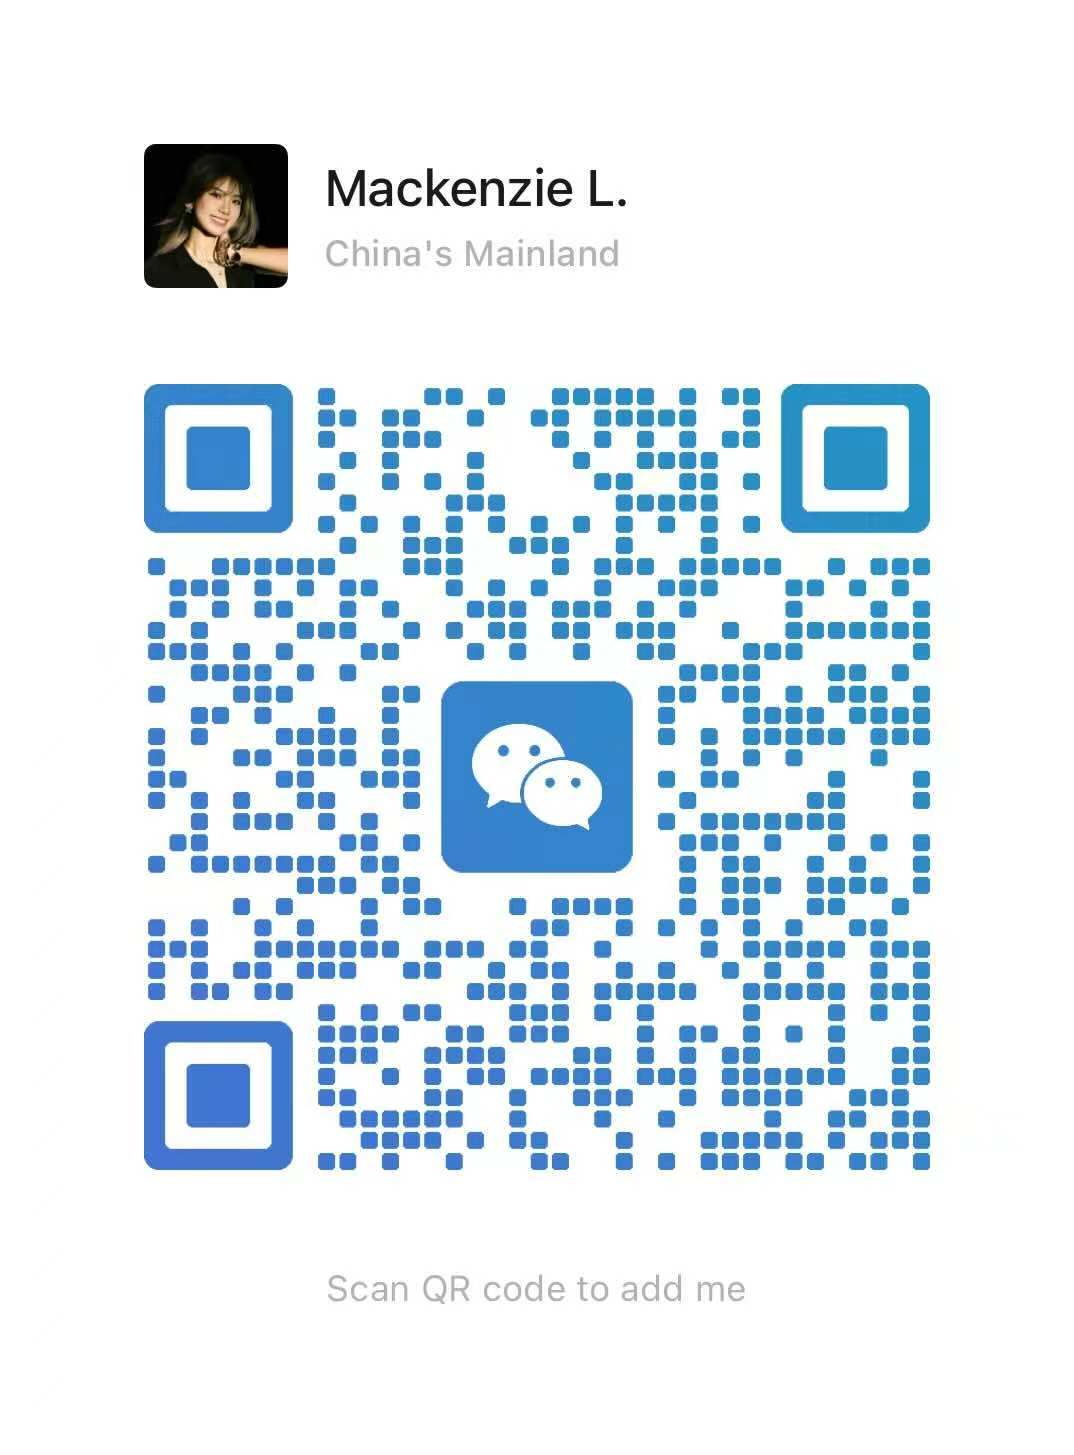
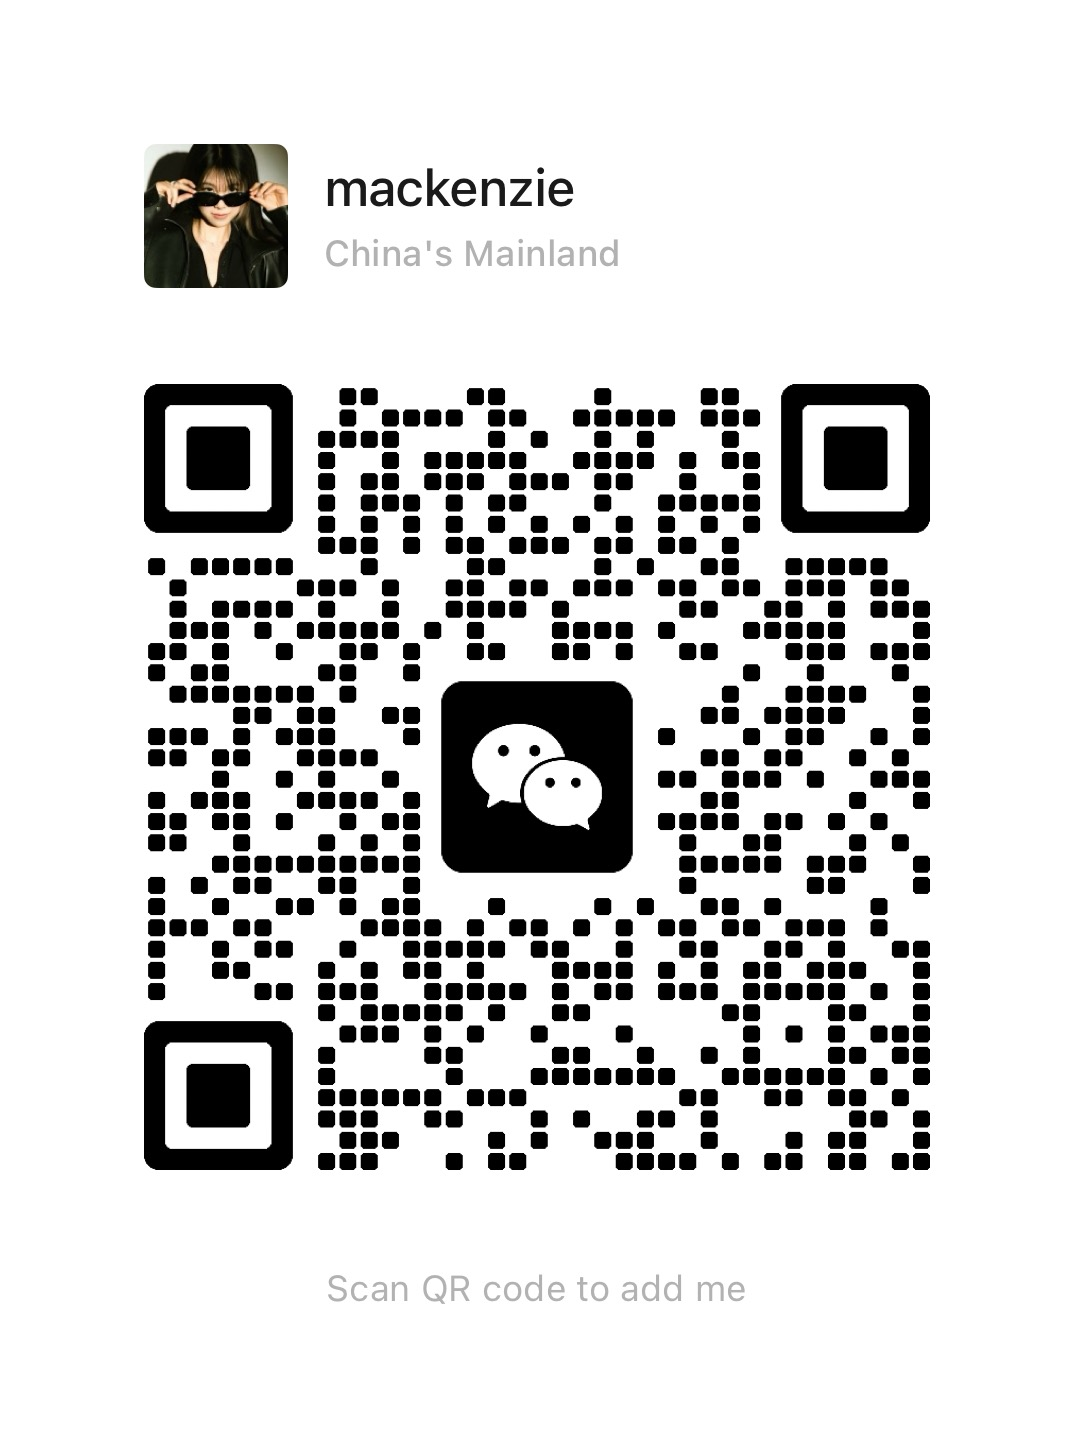
changed contact info

diff --git a/index.html b/index.html
@@ -267,8 +267,9 @@
     <div class="container footer-inner">
       <p class="footer-copy">© 2026 Mackenzie Li</p>
       <div class="footer-links">
-        <a href="mailto:mackenzie.li@btechina.com">Email</a>
         <a href="http://www.btechina.com" target="_blank" rel="noopener">BTE</a>
+        <a href="mailto:mackenzie.li@btechina.com">Email</a>
+        <a href="assets/img/wechat.JPG" target="_blank" rel="noopener">WeChat</a>
         <a href="https://linkedin.com/in/mkz-li" target="_blank" rel="noopener">LinkedIn</a>
       </div>
     </div>
